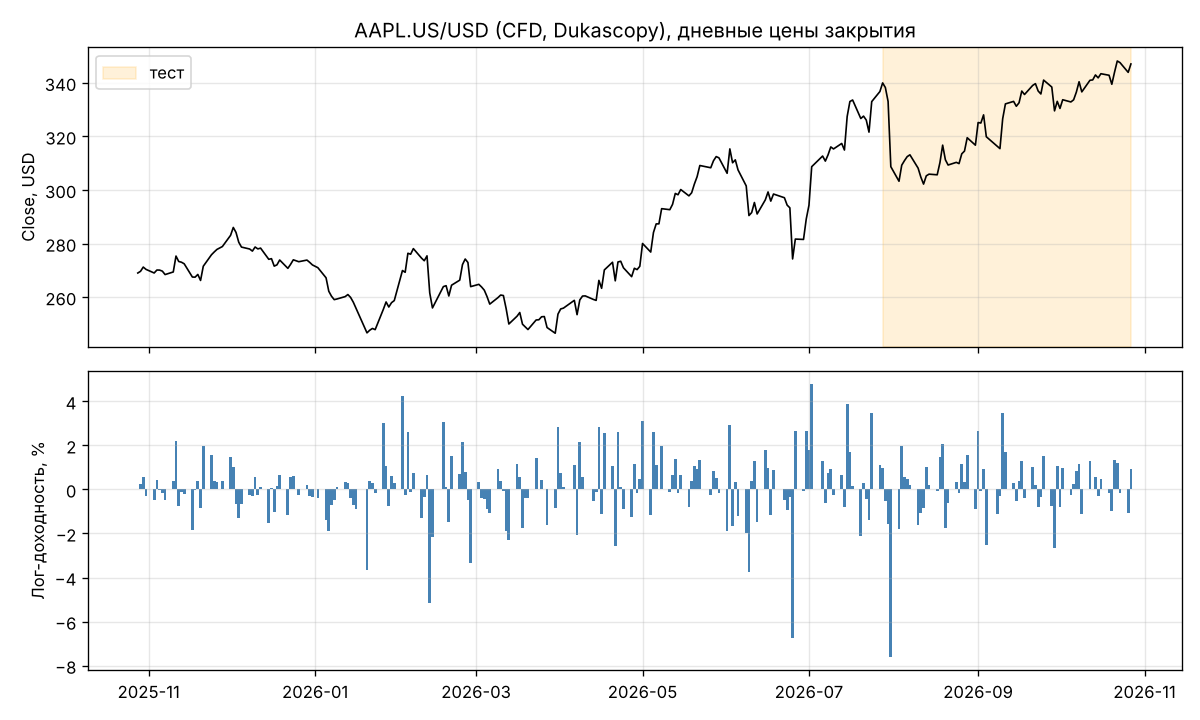
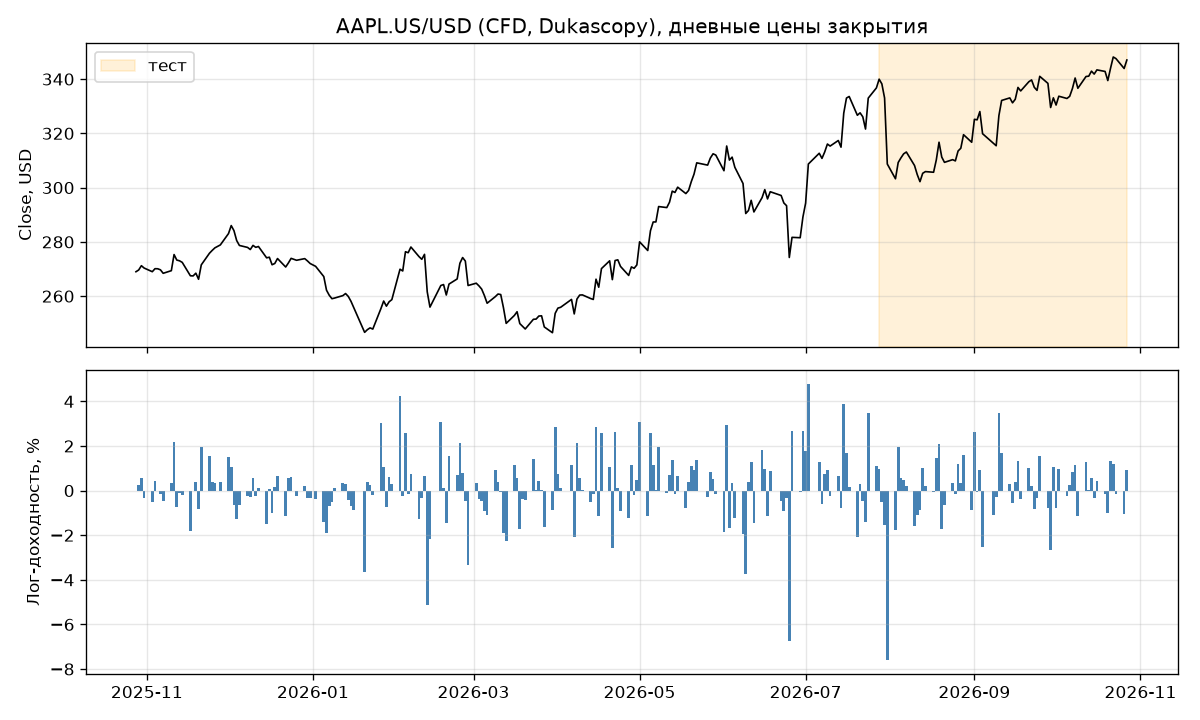
Проверка воспроизводимости на macOS
Полный прогон ./run.sh на MacBook (macOS, Python 3.14): все метрики,
тесты значимости и проверка на утечку совпали с запуском на Linux.
Отличия только в времени работы, данных о платформе, отрисовке
графиков и последних знаках чисел с плавающей точкой (один прогноз
ETS отличается на 0.0001 $).

diff --git a/results/REPORT.md b/results/REPORT.md
@@ -2,7 +2,7 @@
 
[1 lines of base64/hex data omitted]
 Наблюдений: 251 (2025-10-28 - 2026-10-27). Точек прогноза в тесте: 60 (2026-07-28 - 2026-10-20).
-Python 3.13.18, Linux-6.18.44-fc-v185-x86_64-with-glibc2.39.
+Python 3.14.3, macOS-26.6.2-arm64-arm-64bit-Mach-O.
 
 Выбранные гиперпараметры: ARIMA(0, 1, 0) trend=n; LightGBM {'num_leaves': 8, 'learning_rate': 0.03, 'n_estimators': 100, 'min_child_samples': 20}; GRU lookback=10, hidden=8.
 
@@ -66,12 +66,12 @@ DM < 0 — модель точнее; p < 0.05 — различие значим
 
 | model | fit_s | predict_s | n_fits | total_s |
 |---|---|---|---|---|
-| Naive | 0.000 | 0.002 | 60 | 0.002 |
-| Drift | 0.002 | 0.003 | 60 | 0.005 |
-| ARIMA | 2.652 | 0.065 | 60 | 2.717 |
-| ETS | 0.925 | 0.134 | 60 | 1.059 |
-| LightGBM | 8.018 | 0.699 | 60 | 8.717 |
-| GRU | 87.707 | 0.166 | 12 | 87.873 |
+| Naive | 0.000 | 0.001 | 60 | 0.001 |
+| Drift | 0.001 | 0.001 | 60 | 0.002 |
+| ARIMA | 1.365 | 0.023 | 60 | 1.388 |
+| ETS | 0.398 | 0.050 | 60 | 0.448 |
+| LightGBM | 41.903 | 0.303 | 60 | 42.206 |
+| GRU | 23.047 | 0.044 | 12 | 23.091 |
 
 ## Проверка на утечку будущего
 
